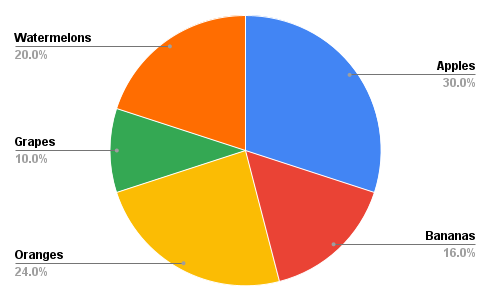
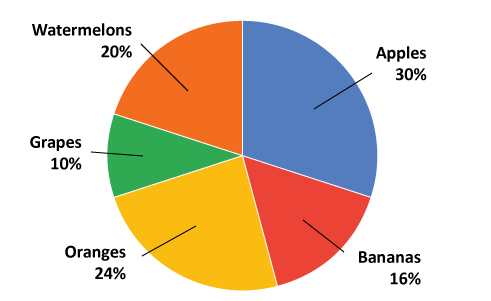
updates to color contrast

diff --git a/how-to/color-contrast.md b/how-to/color-contrast.md
@@ -18,8 +18,12 @@ The W3C Web Content Accessibility Guidelines (WCAG) 2.1 provide specific color c
 - **Normal text** (up to 18pt/24px or 14pt/18.5px if bold) must have a **contrast ratio of at least 4.5:1 between the text color and background color.**
 - **Large text** (at least 18pt/24px or 14pt/18.5px if bold) must have a **contrast ratio of at least 3:1 between the text color and background color.**
 - **Meaningful graphics**, user interface components and their various states, and focus indicators must have a **contrast ratio of at least 3:1 with the background color.**
-
-**Note:** The combination of Minnesota green (#78BE21) with white will not be accessible at any point size or non-text contrast.  
+**Note:** The combination of Minnesota green (#78BE21) and white **will not be accessible at any point size or non-text contrast**. 
+<example>
+    <img
+    src="/assets/images/examples/how-to-text-color-minnesota-green.png"
+    alt=" a button and icon examples using Minnestoa green">
+  	</example>
 
 Check out [WebAIM’s Contrast and Color Accessibility](https://webaim.org/articles/contrast/) article to learn more.
 
@@ -28,7 +32,7 @@ Check out [WebAIM’s Contrast and Color Accessibility](https://webaim.org/artic
 #### **Automated Testing**
 Run a page scan using Deque’s axe DevTool. How to use Deque's axe Dev Tool can be found on the [Setting Up Your Testing Environment webpage](https://mnit-dot-a11y.github.io/testing-environment/).
 
-**Attention!** Axe DevTool is excellent at identifying simple issues like solid-colored text on solid-colored backgrounds that do not meet contrast ratios. It’s terrible at identifying anything more complex, like text on background images, gradients, and different states for user interface components (like hover or focus) that do not meet contrast ratios. You must manually review the page to verify that the color elements meet accessibility requirements.
+**Attention!** Axe DevTool is excellent at identifying simple issues like solid-colored text on solid-colored backgrounds that do not meet contrast ratios. It’s terrible at identifying anything more complex, like text on background images, gradients, and different states for user interface components (like hover or focus) that do not meet contrast ratios. **You must manually review the page to verify that the color elements meet accessibility requirements**.
 
 
 #### **Manual Testing**
@@ -62,7 +66,7 @@ Be sure to manually check color contrast for all types of digital content, inclu
   	</example>
 
 <li>Go to the <em>Styles tab</em> and look for the <em>hover </em>style.</li> 
-   <li>Open CCA and test the hover color against the background</li>
+   <li><em>Open</em> <strong>CCA</strong> and test the hover color against the background</li>
 	<example>
 	<img
 		src="/assets/images/examples/how-to-test-color-hover-state.png"
@@ -75,26 +79,32 @@ Be sure to manually check color contrast for all types of digital content, inclu
 ## Use of Color
 Some users cannot perceive color differences or may not perceive color the same way you do. Therefore, it is essential to avoid using color alone to communicate information. For example, “required fields are in red”. It is okay to communicate “required” using red text, but to communicate this information to people who cannot perceive color, there must be one or more ways to convey the same idea. For example, required fields could include “required” as part of the label.
 
-Another example includes identifying different groups of data in a graph. If different colors represent different groups, they should also be distinguishable via other means. For instance, in a bar chart, the bars could differ by color but have different fill patterns; in a line chart, the lines could vary by color. Always include labels to identify each reported element.
+Another example includes identifying different groups of data in a graph. If different colors represent different groups, they should also be distinguishable via other means. For instance, in a bar chart, the bars could differ by color but have different fill patterns; in a line chart, the lines could vary by color and have different shapes at each data point. Always include labels to identify each reported element.
 
+Example of a accessibile line chart with different shapes at each data point.
+<example>
+	<img
+		src="/assets/images/examples/how-to-test-color-line-chart.jpg"
+		alt="line chart showing different shapes at each data point">
+  </example>
 Check out WebAIM’s [Use of Color information](https://webaim.org/articles/contrast/#sc141) to learn more.
 
 ### **How to Test Use of Color**
 
-There are no automated for this requirement; you have to review the content and design to ensure they do not have any items (like charts, graphs, and hyperlinks) that rely on color as the sole means of communication.
+There are no automated for this requirement; you have to review the content and design to ensure they do not have any items (like hyperlink, charts, and graphs) that rely on color as the sole means of communication.
 
-#### Links
+#### **Testing Hyperlinks**
 Review links and ensure they are not solely indicated by color. Links should also be underlined, bold, or displayed on a colored background.
 
-#### Charts and Graphs
+#### ** Testing Charts and Graphs**
 Review the charts and graphs and answer the following questions.
 - Is there some visual differentiation between line or shape segments? 
 - If you couldn’t see the color, can you understand the content?
-- Are labels provided for pie or bar charts?
+- Are axis labels, data labels and legends included?
 
 **If the answer is no**, send the graphic back to the content owner for remediation.
 
-**If the answer is yes**, verify that the color used in the graphic has a color contrast of at least 3:1 against adjacent color(s).
+**If the answer is yes**, Using CCA to verify that the colors used in the charts or graphs have a color contrast of at least 3:1 against adjacent color(s).
 
 ---
 
@@ -118,7 +128,7 @@ Review the charts and graphs and answer the following questions.
         <p>This text passes contrast</p>
       </td>
       <td>
-        <p style="color:#0FE000">This text does NOT pass contrast</p>
+        <p style="color:#78BE21">This text does NOT pass contrast</p>
       </td>
     </tr>  
     <tr>
